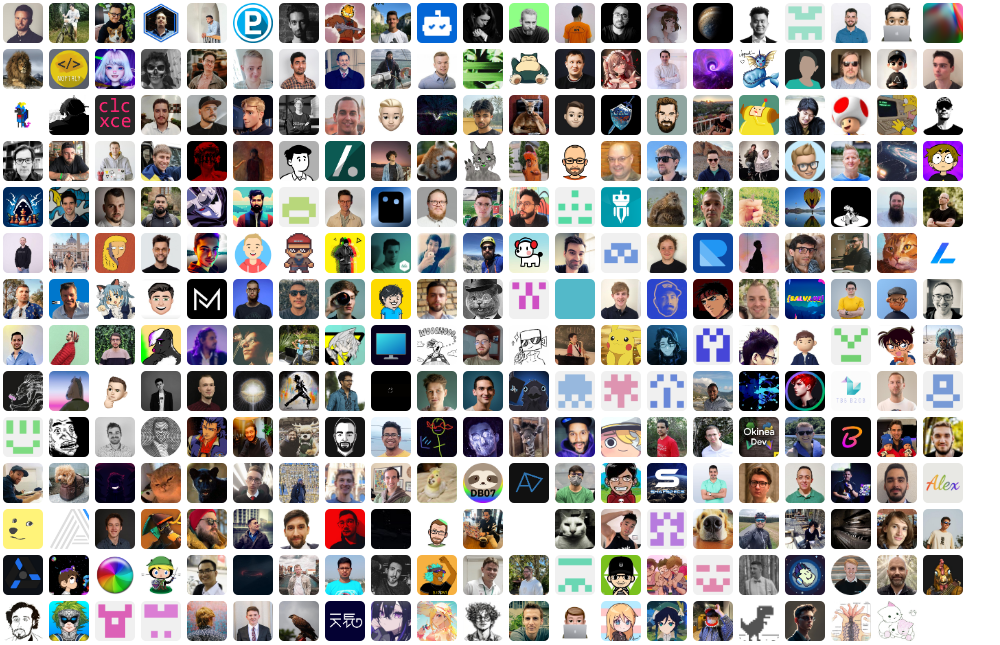
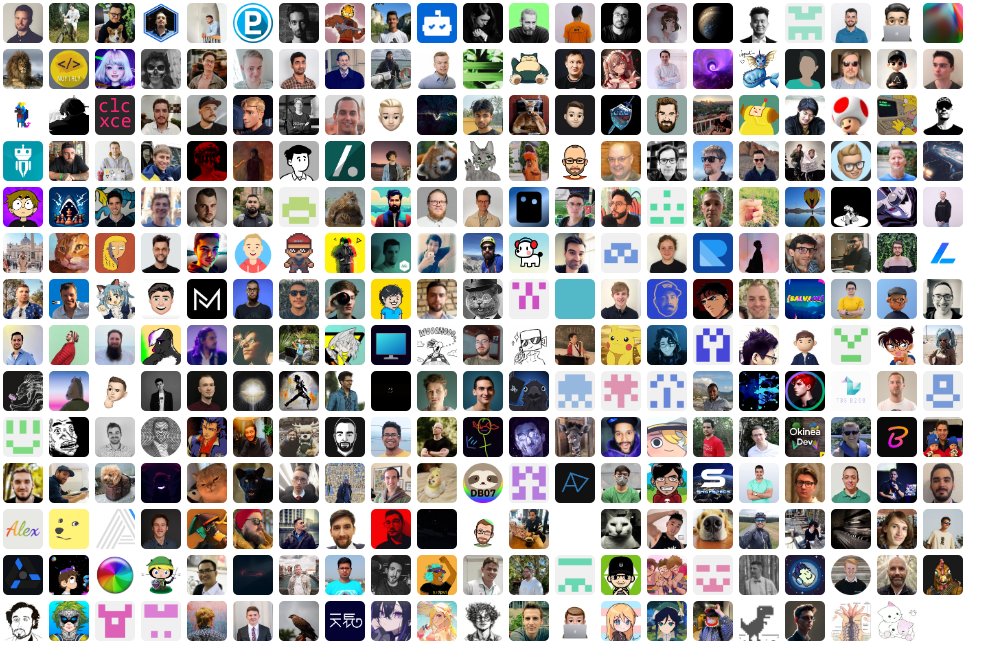
release: 🔖 v0.28.0

diff --git a/CHANGELOG.md b/CHANGELOG.md
@@ -3,10 +3,19 @@
  All notable changes to this project will be documented in this file. Dates are displayed in UTC.
 
  
+#### [v0.28.0](https://github.com/PKief/vscode-material-icon-theme/compare/v0.27.0...v0.28.0) 
+
+> March 1, 2024 
+
+- fix: 🚑 missing config for light theme [`cbcbd8ec`](https://github.com/PKief/vscode-material-icon-theme/commit/cbcbd8ec)
+- feat: ✨ rust ferris icon packs [`d81c70a0`](https://github.com/PKief/vscode-material-icon-theme/commit/d81c70a0)
+- Support Bun's bunfig.toml file [`#2238`](https://github.com/PKief/vscode-material-icon-theme/pull/2238)
+ 
 #### [v0.27.0](https://github.com/PKief/vscode-material-icon-theme/compare/v0.26.0...v0.27.0) 
 
 > March 1, 2024 
 
+- release: 🔖 v0.27.0 [`65da3760`](https://github.com/PKief/vscode-material-icon-theme/commit/65da3760)
 - feat: ✨ misc, bin folder [`b1d8c725`](https://github.com/PKief/vscode-material-icon-theme/commit/b1d8c725)
  
 #### [v0.26.0](https://github.com/PKief/vscode-material-icon-theme/compare/v0.25.0...v0.26.0) 
